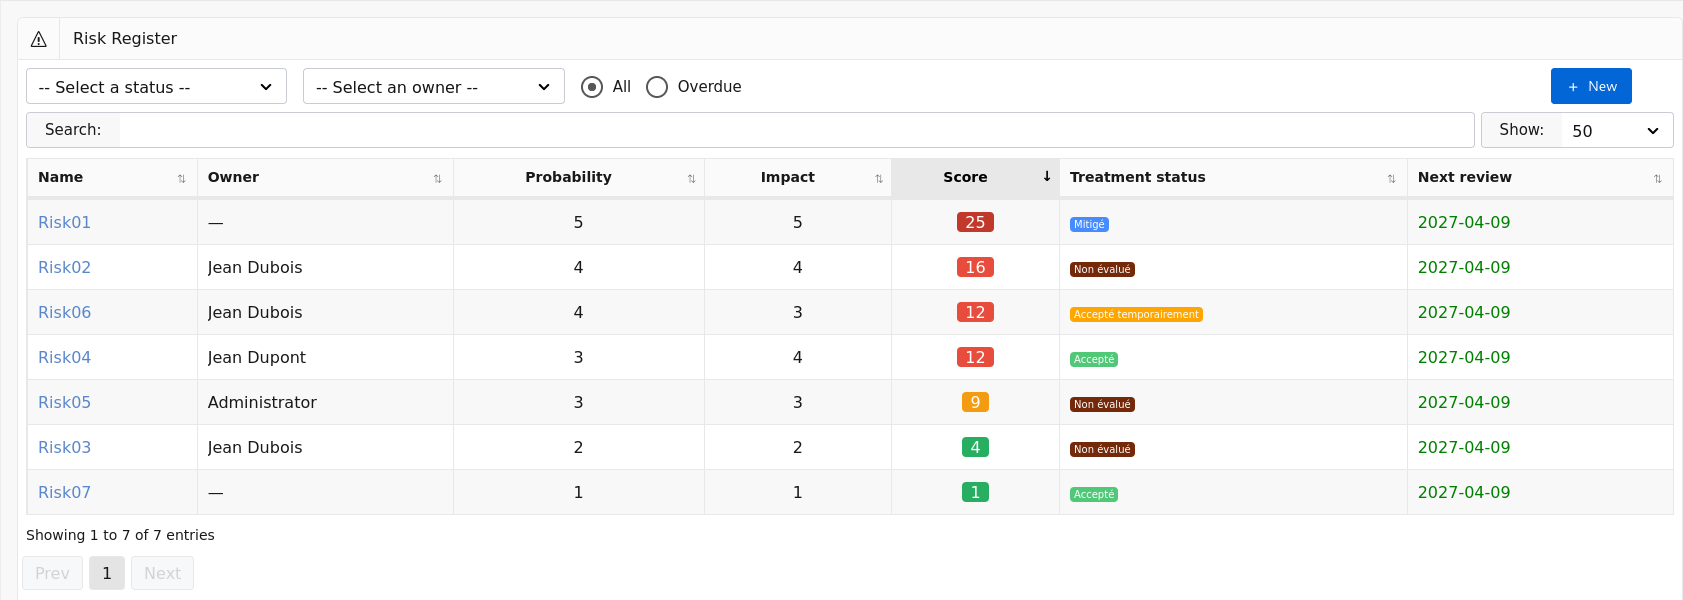
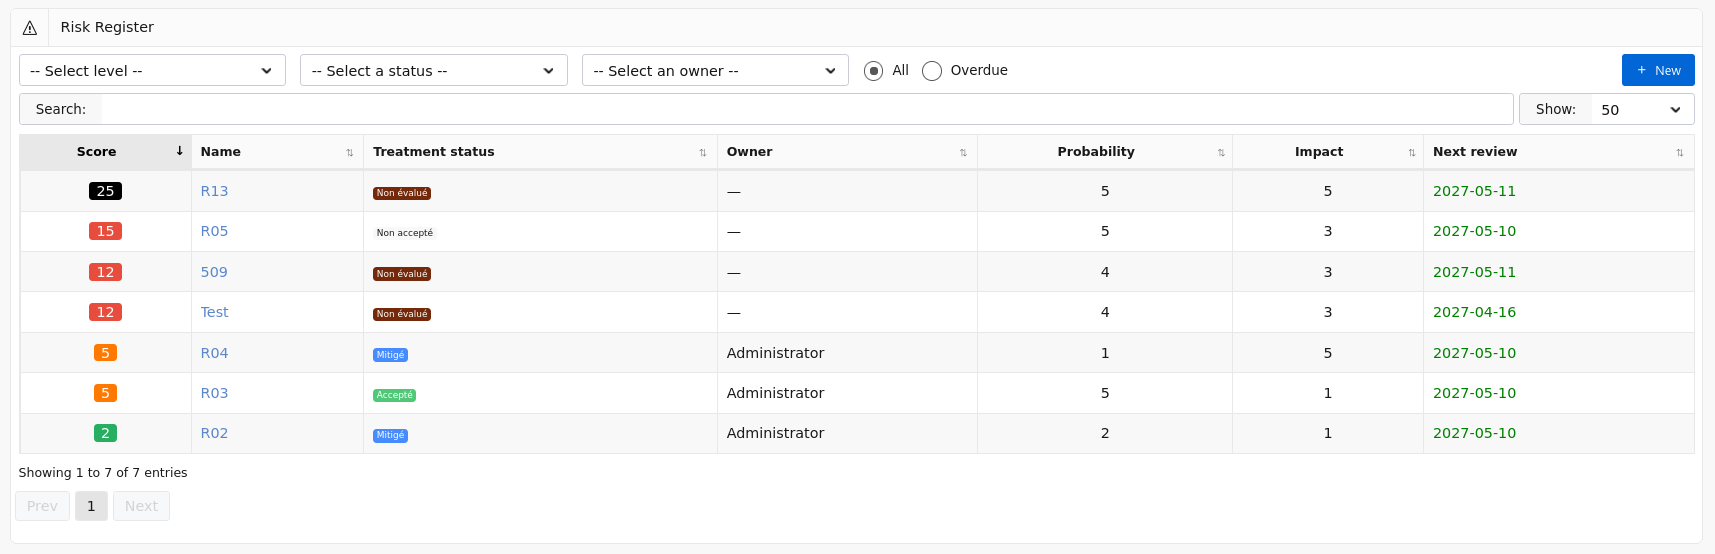
Deployed f4a8181 with MkDocs version: 1.6.1

diff --git a/config/index.html b/config/index.html
@@ -592,39 +592,6 @@
     </span>
   </a>
   
-    <nav class="md-nav" aria-label="Documents">
-      <ul class="md-nav__list">
-        
-          <li class="md-nav__item">
-  <a href="#templates" class="md-nav__link">
-    <span class="md-ellipsis">
-      Templates
-    </span>
-  </a>
-  
-</li>
-        
-          <li class="md-nav__item">
-  <a href="#storage" class="md-nav__link">
-    <span class="md-ellipsis">
-      Storage
-    </span>
-  </a>
-  
-</li>
-        
-          <li class="md-nav__item">
-  <a href="#retention" class="md-nav__link">
-    <span class="md-ellipsis">
-      Retention
-    </span>
-  </a>
-  
-</li>
-        
-      </ul>
-    </nav>
-  
 </li>
         
           <li class="md-nav__item">

diff --git a/fr/risks/index.html b/fr/risks/index.html
@@ -561,39 +561,6 @@
     </span>
   </a>
   
-    <nav class="md-nav" aria-label="Créer ou modifier une configuration">
-      <ul class="md-nav__list">
-        
-          <li class="md-nav__item">
-  <a href="#nom-et-formule" class="md-nav__link">
-    <span class="md-ellipsis">
-      Nom et formule
-    </span>
-  </a>
-  
-</li>
-        
-          <li class="md-nav__item">
-  <a href="#niveaux" class="md-nav__link">
-    <span class="md-ellipsis">
-      Niveaux
-    </span>
-  </a>
-  
-</li>
-        
-          <li class="md-nav__item">
-  <a href="#seuils-de-classification" class="md-nav__link">
-    <span class="md-ellipsis">
-      Seuils de classification
-    </span>
-  </a>
-  
-</li>
-        
-      </ul>
-    </nav>
-  
 </li>
         
       </ul>

diff --git a/risks/index.html b/risks/index.html
@@ -561,39 +561,6 @@
     </span>
   </a>
   
-    <nav class="md-nav" aria-label="Create or Edit a Configuration">
-      <ul class="md-nav__list">
-        
-          <li class="md-nav__item">
-  <a href="#name-and-formula" class="md-nav__link">
-    <span class="md-ellipsis">
-      Name and Formula
-    </span>
-  </a>
-  
-</li>
-        
-          <li class="md-nav__item">
-  <a href="#levels" class="md-nav__link">
-    <span class="md-ellipsis">
-      Levels
-    </span>
-  </a>
-  
-</li>
-        
-          <li class="md-nav__item">
-  <a href="#classification-thresholds" class="md-nav__link">
-    <span class="md-ellipsis">
-      Classification Thresholds
-    </span>
-  </a>
-  
-</li>
-        
-      </ul>
-    </nav>
-  
 </li>
         
       </ul>